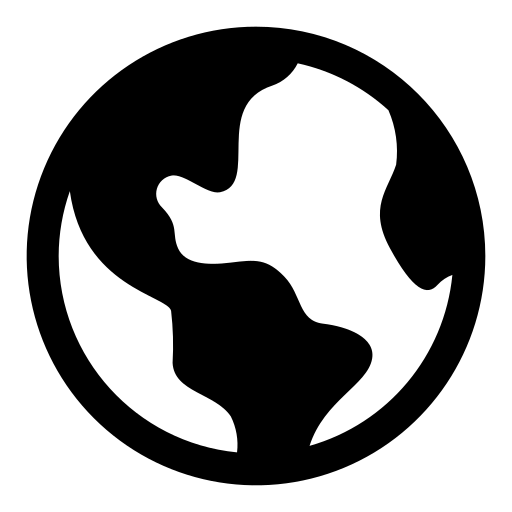
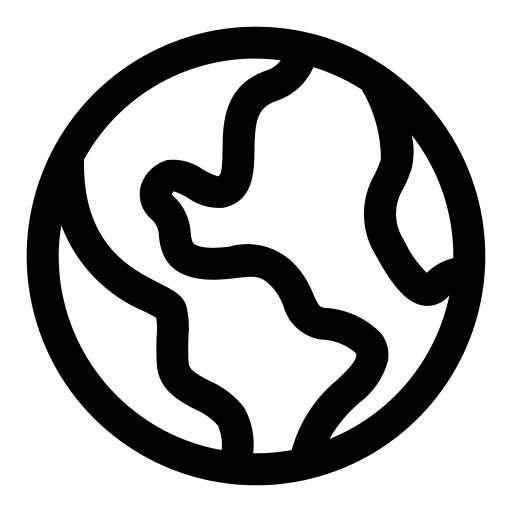
Jun 6, 2026, 11:19 AM

Changed region(s): [[0.0938, 0.0938, 0.7812, 0.9062], [0.6875, 0.1875, 0.9062, 0.5938], [0.6875, 0.1562, 0.7188, 0.1875]]

diff --git a/Scrimba-React/2-data-driven-react/src/App.css b/Scrimba-React/2-data-driven-react/src/App.css
@@ -10,6 +10,6 @@ body {
   text-align: center;
 }
 
-.header-container > img {
+.header-container img {
   width: 50px;
 }
